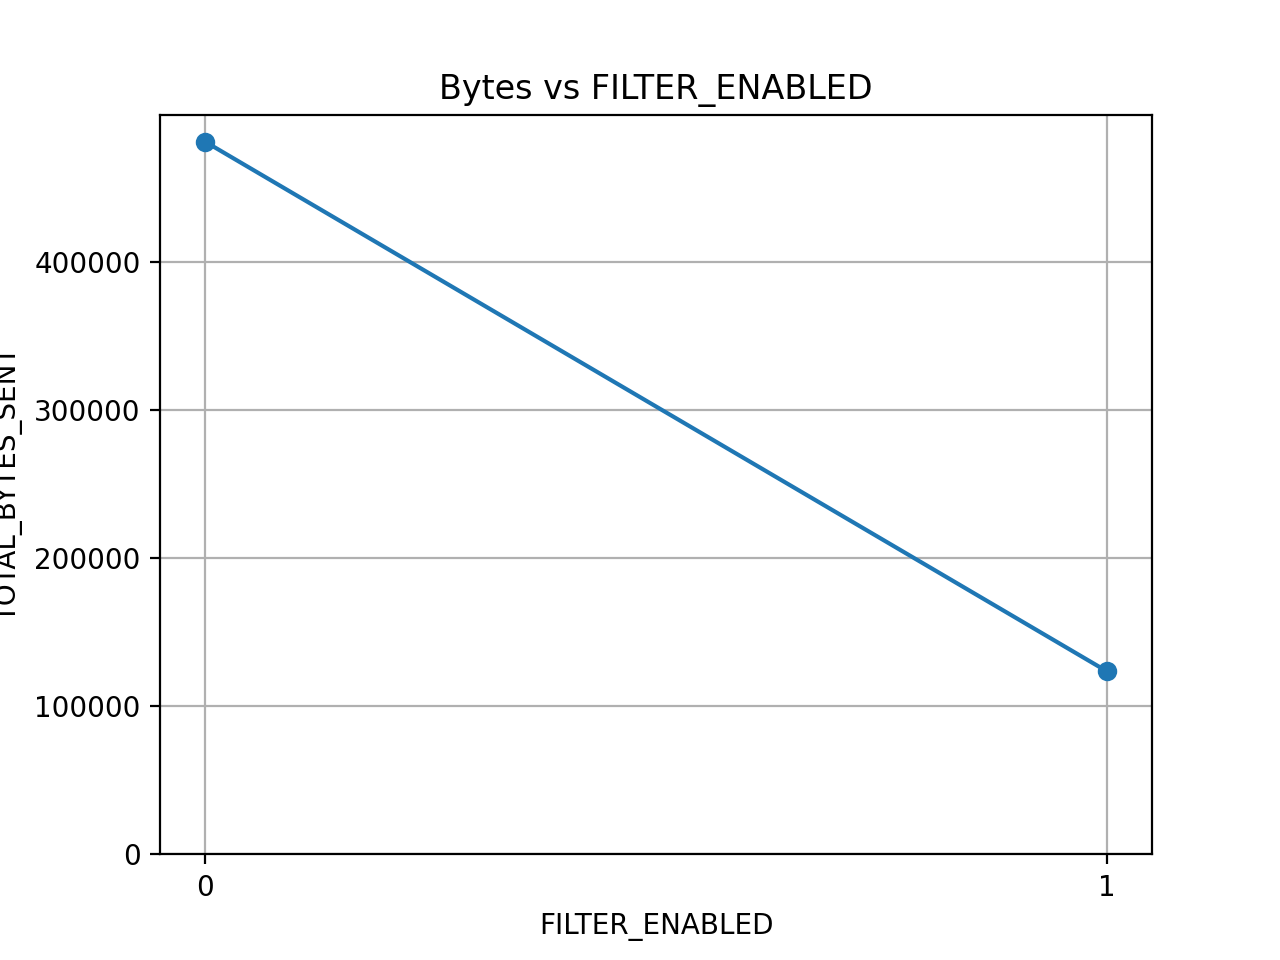
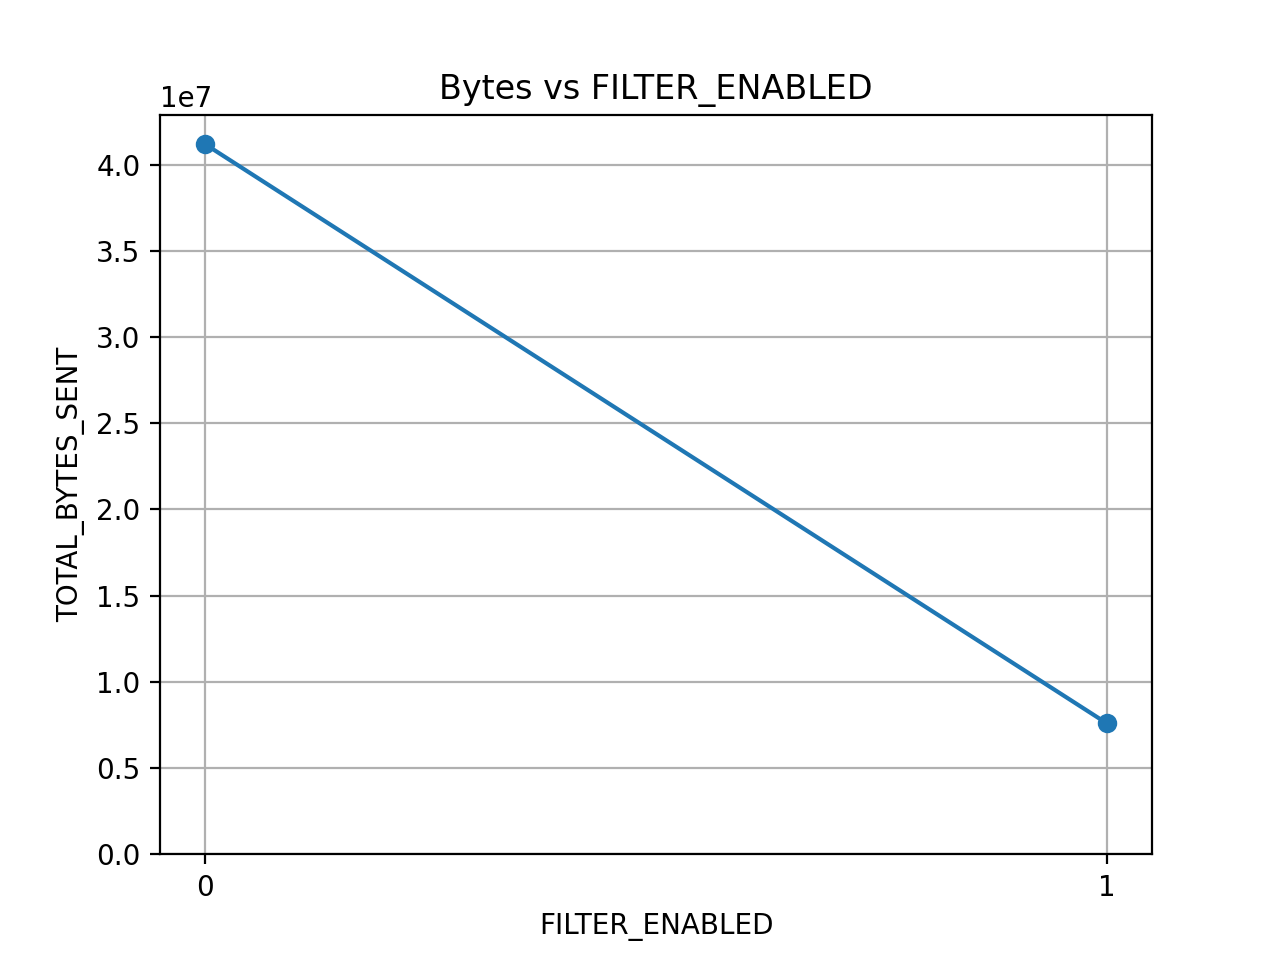
fdfd

diff --git a/java/src/main/java/dl4j_models/Dl4jModelFactory.java b/java/src/main/java/dl4j_models/Dl4jModelFactory.java
@@ -84,11 +84,11 @@ public class Dl4jModelFactory {
 			model = createHarModel(workerId);
 
 		} else if (DATASET.contains("pendigits")) {
-			// model = createPendigitsModel(workerId);	// forward pass cost: CPU = 10ms / GPU = 3ms
+			model = createPendigitsModel(workerId);	// forward pass cost: CPU = 10ms / GPU = 3ms
 			// model = createPendigitsModelTanh(workerId);
 			// model = createPendigitsModelSmaller(workerId);
 			// model = createPendigitsModelSmaller_2(workerId);
-			model = createPendigitsModelSmaller_3(workerId);
+			// model = createPendigitsModelSmaller_3(workerId);
 
 		} else if ("winequality".equals(DATASET)) {
 			model = createWineQualityModel(workerId);
